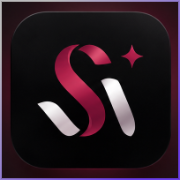
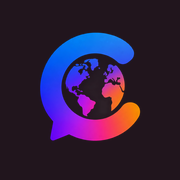
ChaWo: палитра Burgundy & Champagne по всему сайту и дашборду
src/index.css: :root переведён на финальную тёмную палитру (22.09) — ink
#21151d, card #302029, primary #e89bba, geo теперь золотой #d8b56a вместо
голубого, добавлены --error и --champagne. Светлая тема не вводится —
сайт остаётся в единой тёмной теме по решению Алексея.

Все захардкоженные rgba/hex старой бордово-платиновой палитры в
компонентах (Product, Map, Ask, Roadmap, QuoteSection, Idea, Navbar) и в
Team Workspace (dashboard.css, meta.ts и статус/приоритет цвета,
Layout/taskParts/Messages/Notifications/TaskDetail) переведены на новые
значения 1:1 по ролям.

favicon.png и apple-touch-icon.png заменены на новый знак ChaWo (был
устаревший монограммой Si).

Не тронуто осознанно: текстовый контент по-прежнему Social World
(заголовок, meta, навбар) — переименование текста не входило в эту
правку, отдельная задача.

diff --git a/src/components/Product.tsx b/src/components/Product.tsx
@@ -98,15 +98,15 @@ function DiscoverScreen() {
           className="absolute inset-0"
           style={{
             background:
-              'radial-gradient(70% 60% at 55% 45%, rgba(196,103,124,0.5) 0%, rgba(196,103,124,0.06) 45%, transparent 70%), radial-gradient(35% 45% at 20% 75%, rgba(196,103,124,0.35) 0%, transparent 60%), radial-gradient(30% 40% at 78% 65%, rgba(110,155,196,0.35) 0%, transparent 60%), #151417',
+              'radial-gradient(70% 60% at 55% 45%, rgba(232,155,186,0.5) 0%, rgba(232,155,186,0.06) 45%, transparent 70%), radial-gradient(35% 45% at 20% 75%, rgba(232,155,186,0.35) 0%, transparent 60%), radial-gradient(30% 40% at 78% 65%, rgba(216,181,106,0.35) 0%, transparent 60%), #21151d',
           }}
         />
         <svg className="absolute inset-0 w-full h-full opacity-40" viewBox="0 0 300 400" preserveAspectRatio="none">
           {[...Array(10)].map((_, i) => (
-            <path key={`h${i}`} d={`M0 ${30 + i * 35} Q150 ${20 + i * 35 + Math.sin(i) * 10} 300 ${40 + i * 35}`} fill="none" stroke="rgba(236,231,222,0.2)" strokeWidth="0.6" />
+            <path key={`h${i}`} d={`M0 ${30 + i * 35} Q150 ${20 + i * 35 + Math.sin(i) * 10} 300 ${40 + i * 35}`} fill="none" stroke="rgba(255,248,240,0.2)" strokeWidth="0.6" />
           ))}
           {[...Array(7)].map((_, i) => (
-            <path key={`v${i}`} d={`M${40 + i * 40} 0 Q${30 + i * 40 + Math.cos(i) * 15} 200 ${50 + i * 40} 400`} fill="none" stroke="rgba(236,231,222,0.15)" strokeWidth="0.5" />
+            <path key={`v${i}`} d={`M${40 + i * 40} 0 Q${30 + i * 40 + Math.cos(i) * 15} 200 ${50 + i * 40} 400`} fill="none" stroke="rgba(255,248,240,0.15)" strokeWidth="0.5" />
           ))}
         </svg>
         {[
@@ -120,8 +120,8 @@ function DiscoverScreen() {
         ].map((p, i) => (
           <div key={i} className="absolute -translate-x-1/2 -translate-y-1/2" style={{ left: p.x, top: p.y }}>
             <span className={`relative flex ${p.big ? 'h-3 w-3' : 'h-2 w-2'}`}>
-              <span className="absolute inset-0 rounded-full opacity-40 animate-ping" style={{ background: p.tone === 'clay' ? '#c4677c' : '#6e9bc4' }} />
-              <span className={`relative inline-flex rounded-full ${p.big ? 'h-3 w-3' : 'h-2 w-2'}`} style={{ background: p.tone === 'clay' ? '#c4677c' : '#6e9bc4' }} />
+              <span className="absolute inset-0 rounded-full opacity-40 animate-ping" style={{ background: p.tone === 'clay' ? '#e89bba' : '#d8b56a' }} />
+              <span className={`relative inline-flex rounded-full ${p.big ? 'h-3 w-3' : 'h-2 w-2'}`} style={{ background: p.tone === 'clay' ? '#e89bba' : '#d8b56a' }} />
             </span>
           </div>
         ))}
@@ -214,7 +214,7 @@ function ProfileScreen() {
       </div>
       <div className="px-5 mt-3">
         <div className="h-1 rounded-full bg-white/10 overflow-hidden">
-          <div className="h-full w-[94%] rounded-full" style={{ background: 'linear-gradient(90deg, #7a2436, #c4677c)' }} />
+          <div className="h-full w-[94%] rounded-full" style={{ background: 'linear-gradient(90deg, #e89bba, #f0b0c9)' }} />
         </div>
         <div className="mt-1.5 flex justify-between text-[8px] tracking-widest uppercase text-white/40">
           <span>Репутация</span><span className="text-clay">94 / 100</span>
@@ -284,10 +284,10 @@ export default function Product() {
             {/* clay glow */}
             <div className="absolute -inset-16 pointer-events-none" aria-hidden>
               <div className="w-full h-full rounded-full"
-                   style={{ background: 'radial-gradient(closest-side, rgba(196,103,124,0.25), transparent 70%)' }} />
+                   style={{ background: 'radial-gradient(closest-side, rgba(232,155,186,0.25), transparent 70%)' }} />
             </div>
 
-            <div className="relative w-[300px] h-[620px] rounded-[52px] border-hair-strong bg-ink2 p-3 shadow-[0_60px_120px_-40px_rgba(196,103,124,0.35)]">
+            <div className="relative w-[300px] h-[620px] rounded-[52px] border-hair-strong bg-ink2 p-3 shadow-[0_60px_120px_-40px_rgba(232,155,186,0.35)]">
               {/* notch */}
               <div className="absolute top-4 left-1/2 -translate-x-1/2 w-24 h-5 rounded-full bg-black z-30" />
 

diff --git a/src/components/Map.tsx b/src/components/Map.tsx
@@ -30,7 +30,7 @@ export default function Map() {
             className="absolute inset-0"
             style={{
               background:
-                'radial-gradient(60% 55% at 55% 45%, rgba(196,103,124,0.35) 0%, rgba(196,103,124,0.06) 45%, transparent 70%), radial-gradient(35% 40% at 25% 70%, rgba(196,103,124,0.20) 0%, transparent 60%), radial-gradient(30% 35% at 78% 65%, rgba(110,155,196,0.20) 0%, transparent 60%), #151417',
+                'radial-gradient(60% 55% at 55% 45%, rgba(232,155,186,0.35) 0%, rgba(232,155,186,0.06) 45%, transparent 70%), radial-gradient(35% 40% at 25% 70%, rgba(232,155,186,0.20) 0%, transparent 60%), radial-gradient(30% 35% at 78% 65%, rgba(216,181,106,0.20) 0%, transparent 60%), #21151d',
             }}
           />
           {/* streets */}
@@ -40,7 +40,7 @@ export default function Map() {
                 key={`h${i}`}
                 d={`M0 ${50 + i * 45} Q400 ${30 + i * 45 + Math.sin(i) * 20} 800 ${60 + i * 45}`}
                 fill="none"
-                stroke="rgba(236,231,222,0.15)"
+                stroke="rgba(255,248,240,0.15)"
                 strokeWidth="0.8"
               />
             ))}
@@ -49,7 +49,7 @@ export default function Map() {
                 key={`v${i}`}
                 d={`M${60 + i * 80} 0 Q${40 + i * 80 + Math.cos(i) * 20} 300 ${80 + i * 80} 600`}
                 fill="none"
-                stroke="rgba(236,231,222,0.12)"
+                stroke="rgba(255,248,240,0.12)"
                 strokeWidth="0.6"
               />
             ))}
@@ -72,11 +72,11 @@ export default function Map() {
               <span className="relative flex h-2.5 w-2.5">
                 <span
                   className="absolute inset-0 rounded-full opacity-40 animate-ping"
-                  style={{ background: p.tone === 'clay' ? '#c4677c' : '#6e9bc4' }}
+                  style={{ background: p.tone === 'clay' ? '#e89bba' : '#d8b56a' }}
                 />
                 <span
                   className="relative inline-flex h-2.5 w-2.5 rounded-full"
-                  style={{ background: p.tone === 'clay' ? '#c4677c' : '#6e9bc4' }}
+                  style={{ background: p.tone === 'clay' ? '#e89bba' : '#d8b56a' }}
                 />
               </span>
             </div>
@@ -122,9 +122,9 @@ export default function Map() {
                         width: `${d.pulse}%`,
                         background:
                           d.tone === 'clay'
-                            ? 'linear-gradient(90deg, #7a2436, #c4677c)'
+                            ? 'linear-gradient(90deg, #e89bba, #f0b0c9)'
                             : d.tone === 'sage'
-                            ? 'linear-gradient(90deg, #4fa77a, #7fc9a3)'
+                            ? 'linear-gradient(90deg, #d8b56a, #e6c98a)'
                             : 'rgba(255,255,255,0.35)',
                       }}
                     />

diff --git a/src/dashboard/Layout.tsx b/src/dashboard/Layout.tsx
@@ -52,7 +52,7 @@ export default function Layout({ children }: { children: ReactNode }) {
               <n.icon className="h-4 w-4" aria-hidden />
               <span className="flex-1">{n.label}</span>
               {badge(n.to) > 0 && (
-                <span className="rounded-full bg-[var(--d-tint)] px-1.5 text-[11px] font-bold text-[#151417]"
+                <span className="rounded-full bg-[var(--d-tint)] px-1.5 text-[11px] font-bold text-[#21151d]"
                   aria-label={`${badge(n.to)} непрочитанных`}>{badge(n.to)}</span>
               )}
             </NavLink>
@@ -83,7 +83,7 @@ export default function Layout({ children }: { children: ReactNode }) {
             aria-label={noteBadge ? `Уведомления, непрочитанных: ${noteBadge}` : 'Уведомления'}>
             <Bell className="h-4 w-4" aria-hidden />
             {noteBadge > 0 && (
-              <span className="absolute -right-1 -top-1 rounded-full bg-[var(--d-tint)] px-1.5 text-[10px] font-bold text-[#151417]">{noteBadge}</span>
+              <span className="absolute -right-1 -top-1 rounded-full bg-[var(--d-tint)] px-1.5 text-[10px] font-bold text-[#21151d]">{noteBadge}</span>
             )}
           </NavLink>
           <button className="dash-btn dash-btn-ghost !px-3 md:hidden" onClick={() => void signOut()} aria-label="Выйти">
@@ -99,7 +99,7 @@ export default function Layout({ children }: { children: ReactNode }) {
               className={({ isActive }) => `relative flex min-h-14 flex-1 flex-col items-center justify-center gap-0.5 text-[11px] ${isActive ? 'text-[var(--d-tint)]' : 'text-[var(--d-muted)]'}`}>
               <n.icon className="h-5 w-5" aria-hidden />
               {n.label}
-              {badge(n.to) > 0 && <span className="absolute right-[22%] top-1.5 rounded-full bg-[var(--d-tint)] px-1.5 text-[10px] font-bold text-[#151417]">{badge(n.to)}</span>}
+              {badge(n.to) > 0 && <span className="absolute right-[22%] top-1.5 rounded-full bg-[var(--d-tint)] px-1.5 text-[10px] font-bold text-[#21151d]">{badge(n.to)}</span>}
             </NavLink>
           ))}
         </nav>

diff --git a/src/index.css b/src/index.css
@@ -1,29 +1,33 @@
 @import "tailwindcss";
 
 :root {
-  --ink: #151417;
-  --ink2: #211f22;
-  --paper: #e7e4e2;
+  /* ChaWo — «Бургунди и шампань», зафиксированная фирменная палитра
+     (22.09.2026). Единая тёмная тема, без светлого варианта. */
+  --ink: #21151d;
+  --ink2: #302029;
+  --paper: #fff8f0;
 
-  /* Бордовый — цвет действия: кнопки и заливки. */
-  --primary: #7a2436;
-  --primary-hover: #963148;
+  /* Розовый — цвет действия: кнопки и заливки. */
+  --primary: #e89bba;
+  --primary-hover: #f0b0c9;
+  --primary-tint: #e89bba;
 
-  /* Тот же бордовый для текста и иконок на графите: #7a2436 на тёмном
-     фоне даёт контраст 1,8:1 и читается как грязное пятно. */
-  --primary-tint: #c4677c;
+  --success: #75c9a5;
+  --error: #e87878;
 
-  --success: #4fa77a;
-  --geo: #6e9bc4;
+  /* Гео сознательно не розовый и не голубой — золотистый (шампань), чтобы
+     не сливаться с брендовым --primary на карте. */
+  --geo: #d8b56a;
+  --champagne: #e6c98a;
 
-  --line: rgba(64, 59, 62, 0.55);
-  --line-strong: #403b3e;
+  --line: rgba(81, 56, 67, 0.55);
+  --line-strong: #513843;
 }
 
 @layer base {
   html, body {
     background: var(--ink);
-    color: #ece7de;
+    color: var(--paper);
     overflow-x: hidden;
   }
 
@@ -122,14 +126,14 @@
     font-weight: 500;
     letter-spacing: 0.28em;
     text-transform: uppercase;
-    color: rgba(236, 231, 222, 0.5);
+    color: rgba(255, 248, 240, 0.5);
   }
 
   .section-label::before {
     content: '';
     width: 40px;
     height: 1px;
-    background: rgba(236, 231, 222, 0.3);
+    background: rgba(255, 248, 240, 0.3);
   }
 
   /* ————— Divider line ————— */

diff --git a/src/dashboard/pages/Home.tsx b/src/dashboard/pages/Home.tsx
@@ -10,13 +10,13 @@ import { ActivityList } from '../shared'
 import { ClaimButton, DueLabel, PriorityChip, StatusChip } from '../taskParts'
 
 const TILES: { key: string; label: string; to: string; color: string }[] = [
-  { key: 'total', label: 'Всего', to: '/dashboard/tasks', color: '#e7e4e2' },
-  { key: 'todo', label: 'To Do', to: '/dashboard/tasks?status=todo', color: '#aaa5a6' },
-  { key: 'in_progress', label: 'In Progress', to: '/dashboard/tasks?status=in_progress', color: '#6e9bc4' },
-  { key: 'review', label: 'Review', to: '/dashboard/tasks?status=review', color: '#d9a441' },
-  { key: 'done', label: 'Done', to: '/dashboard/tasks?status=done', color: '#4fa77a' },
-  { key: 'blocked', label: 'Blocked', to: '/dashboard/tasks?status=blocked', color: '#e5566d' },
-  { key: 'overdue', label: 'Просрочено', to: '/dashboard/tasks?due=overdue', color: '#e5566d' },
+  { key: 'total', label: 'Всего', to: '/dashboard/tasks', color: '#fff8f0' },
+  { key: 'todo', label: 'To Do', to: '/dashboard/tasks?status=todo', color: '#bba9af' },
+  { key: 'in_progress', label: 'In Progress', to: '/dashboard/tasks?status=in_progress', color: '#d8b56a' },
+  { key: 'review', label: 'Review', to: '/dashboard/tasks?status=review', color: '#e6c98a' },
+  { key: 'done', label: 'Done', to: '/dashboard/tasks?status=done', color: '#75c9a5' },
+  { key: 'blocked', label: 'Blocked', to: '/dashboard/tasks?status=blocked', color: '#e87878' },
+  { key: 'overdue', label: 'Просрочено', to: '/dashboard/tasks?due=overdue', color: '#e87878' },
 ]
 
 const Panel = ({ title, children, action }: { title: string; children: React.ReactNode; action?: React.ReactNode }) => (

diff --git a/src/components/Roadmap.tsx b/src/components/Roadmap.tsx
@@ -86,7 +86,7 @@ const milestones: Milestone[] = [
 ]
 
 const dotColor = (s: Milestone['status']) =>
-  s === 'now' ? '#c4677c' : s === 'next' ? '#4fa77a' : 'rgba(236,231,222,0.35)'
+  s === 'now' ? '#e89bba' : s === 'next' ? '#75c9a5' : 'rgba(255,248,240,0.35)'
 
 const statusLabel: Record<Milestone['status'], string> = {
   now: 'В работе',
@@ -134,9 +134,9 @@ export default function Roadmap() {
                 className="relative w-3 h-3 rounded-full ring-4"
                 style={{
                   background: dotColor(m.status),
-                  boxShadow: m.status === 'now' ? '0 0 24px rgba(196,103,124,0.6)' : 'none',
+                  boxShadow: m.status === 'now' ? '0 0 24px rgba(232,155,186,0.6)' : 'none',
                   // @ts-expect-error css var support
-                  '--tw-ring-color': '#151417',
+                  '--tw-ring-color': '#21151d',
                 }}
               />
               <div className="mt-6 rounded-2xl border-hair p-5 w-full text-left min-h-[220px]">
@@ -178,7 +178,7 @@ export default function Roadmap() {
                 className="absolute -left-[22px] top-2 block w-3 h-3 rounded-full"
                 style={{
                   background: dotColor(m.status),
-                  boxShadow: m.status === 'now' ? '0 0 20px rgba(196,103,124,0.6)' : 'none',
+                  boxShadow: m.status === 'now' ? '0 0 20px rgba(232,155,186,0.6)' : 'none',
                 }}
               />
               <div className="font-mono text-[10px] tracking-[0.24em] uppercase text-white/40 mb-1">

diff --git a/src/dashboard/meta.ts b/src/dashboard/meta.ts
@@ -2,18 +2,18 @@ import type { ActivityEvent, Member, MemberStatus, Priority, Role, TaskStatus } 
 
 export const STATUSES: { id: TaskStatus; label: string; color: string }[] = [
   { id: 'backlog', label: 'Backlog', color: '#8a8587' },
-  { id: 'todo', label: 'To Do', color: '#aaa5a6' },
-  { id: 'in_progress', label: 'In Progress', color: '#6e9bc4' },
-  { id: 'review', label: 'Review', color: '#d9a441' },
-  { id: 'blocked', label: 'Blocked', color: '#e5566d' },
-  { id: 'done', label: 'Done', color: '#4fa77a' },
+  { id: 'todo', label: 'To Do', color: '#bba9af' },
+  { id: 'in_progress', label: 'In Progress', color: '#d8b56a' },
+  { id: 'review', label: 'Review', color: '#e6c98a' },
+  { id: 'blocked', label: 'Blocked', color: '#e87878' },
+  { id: 'done', label: 'Done', color: '#75c9a5' },
 ]
 
 export const PRIORITIES: { id: Priority; label: string; color: string; weight: number }[] = [
   { id: 'low', label: 'Low', color: '#8a8587', weight: 1 },
-  { id: 'medium', label: 'Medium', color: '#6e9bc4', weight: 2 },
-  { id: 'high', label: 'High', color: '#d9a441', weight: 3 },
-  { id: 'critical', label: 'Critical', color: '#e5566d', weight: 4 },
+  { id: 'medium', label: 'Medium', color: '#d8b56a', weight: 2 },
+  { id: 'high', label: 'High', color: '#e6c98a', weight: 3 },
+  { id: 'critical', label: 'Critical', color: '#e87878', weight: 4 },
 ]
 
 export const ROLE_LABEL: Record<Role, string> = { owner: 'Owner', admin: 'Admin', member: 'Member' }

diff --git a/src/dashboard/dashboard.css b/src/dashboard/dashboard.css
@@ -1,18 +1,18 @@
 /* Стили внутреннего dashboard. Грузятся только вместе с ленивым чанком /dashboard. */
 @layer components {
   .dash {
-    --d-bg: #151417;
-    --d-surface: #211f22;
-    --d-raised: #2a272b;
-    --d-line: #403b3e;
-    --d-text: #e7e4e2;
-    --d-muted: #aaa5a6;
-    --d-primary: #7a2436;
-    --d-primary-hover: #963148;
-    --d-tint: #c4677c;
-    --d-ok: #4fa77a;
-    --d-warn: #d9a441;
-    --d-info: #6e9bc4;
+    --d-bg: #21151d;
+    --d-surface: #302029;
+    --d-raised: #3b2731;
+    --d-line: #513843;
+    --d-text: #fff8f0;
+    --d-muted: #bba9af;
+    --d-primary: #e89bba;
+    --d-primary-hover: #f0b0c9;
+    --d-tint: #e89bba;
+    --d-ok: #75c9a5;
+    --d-warn: #e6c98a;
+    --d-info: #d8b56a;
     background: var(--d-bg);
     color: var(--d-text);
     font-family: 'Inter', sans-serif;
@@ -55,7 +55,7 @@
     font-size: 12px; font-weight: 500; border: 1px solid var(--d-line); color: var(--d-muted); white-space: nowrap;
   }
 
-  .dash-row { border-bottom: 1px solid rgba(64, 59, 62, .55); }
+  .dash-row { border-bottom: 1px solid rgba(81, 56, 67, .55); }
   .dash-row:last-child { border-bottom: 0; }
 
   .dash-md { font-size: 14px; line-height: 1.55; overflow-wrap: anywhere; }

diff --git a/src/components/Ask.tsx b/src/components/Ask.tsx
@@ -35,7 +35,7 @@ export default function Ask() {
           className="relative rounded-3xl border-hair-strong p-8 md:p-12 overflow-hidden"
           style={{
             background:
-              'radial-gradient(80% 60% at 20% 0%, rgba(122,36,54,0.22), transparent 60%), radial-gradient(60% 60% at 100% 100%, rgba(79,167,122,0.10), transparent 60%), #151417',
+              'radial-gradient(80% 60% at 20% 0%, rgba(232,155,186,0.22), transparent 60%), radial-gradient(60% 60% at 100% 100%, rgba(117,201,165,0.10), transparent 60%), #21151d',
           }}
         >
           <div className="flex items-baseline justify-between mb-10">
@@ -104,8 +104,8 @@ export default function Ask() {
                     style={{
                       background:
                         a.tone === 'clay'
-                          ? 'linear-gradient(90deg, #7a2436, #c4677c)'
-                          : 'linear-gradient(90deg, #4fa77a, #7fc9a3)',
+                          ? 'linear-gradient(90deg, #e89bba, #f0b0c9)'
+                          : 'linear-gradient(90deg, #75c9a5, #a5dcc4)',
                     }}
                   />
                 </div>

diff --git a/src/components/QuoteSection.tsx b/src/components/QuoteSection.tsx
@@ -43,7 +43,7 @@ export default function QuoteSection() {
     <section
       ref={sectionRef}
       className="relative min-h-screen w-full overflow-hidden flex items-center justify-center px-6 md:px-12"
-      style={{ background: 'radial-gradient(120% 80% at 50% 50%, #211f22 0%, #151417 60%)' }}
+      style={{ background: 'radial-gradient(120% 80% at 50% 50%, #302029 0%, #21151d 60%)' }}
     >
       {/* subtle horizontal hairlines top / bottom of the section */}
       <div className="absolute top-24 left-0 right-0 divider-x" />
@@ -54,7 +54,7 @@ export default function QuoteSection() {
         ref={glowRef}
         className="pointer-events-none absolute left-1/2 top-1/2 h-[520px] w-[900px] rounded-full will-change-transform"
         style={{
-          background: 'radial-gradient(closest-side, rgba(196,103,124,0.18), rgba(196,103,124,0) 70%)',
+          background: 'radial-gradient(closest-side, rgba(232,155,186,0.18), rgba(232,155,186,0) 70%)',
           transform: 'translate3d(-50%, 40px, 0)',
           filter: 'blur(20px)',
         }}

diff --git a/src/dashboard/pages/Messages.tsx b/src/dashboard/pages/Messages.tsx
@@ -72,7 +72,7 @@ export default function Messages() {
                         <Link to={`/dashboard/messages/${c.id}`} aria-current={c.id === convId ? 'page' : undefined}
                           className={`flex min-h-11 items-center gap-2 px-4 text-sm hover:bg-[var(--d-raised)] ${c.id === convId ? 'bg-[var(--d-raised)]' : ''}`}>
                           <span className="flex-1 truncate">{c.kind === 'channel' ? '# ' : ''}{label(c)}</span>
-                          {n > 0 && <span className="rounded-full bg-[var(--d-tint)] px-1.5 text-[11px] font-bold text-[#151417]" aria-label={`${n} непрочитанных`}>{n}</span>}
+                          {n > 0 && <span className="rounded-full bg-[var(--d-tint)] px-1.5 text-[11px] font-bold text-[#21151d]" aria-label={`${n} непрочитанных`}>{n}</span>}
                         </Link>
                       </li>
                     )

diff --git a/src/dashboard/pages/Notifications.tsx b/src/dashboard/pages/Notifications.tsx
@@ -54,7 +54,7 @@ export default function Notifications() {
               className={`dash-btn dash-btn-sm ${tab === t.id ? '' : 'dash-btn-ghost'}`}
               onClick={() => setSp(t.id === 'personal' ? {} : { tab: t.id }, { replace: true })}>
               {t.label}
-              {n > 0 && <span className={`rounded-full px-1.5 text-[11px] font-bold ${tab === t.id ? 'bg-white/25' : 'bg-[var(--d-tint)] text-[#151417]'}`}
+              {n > 0 && <span className={`rounded-full px-1.5 text-[11px] font-bold ${tab === t.id ? 'bg-white/25' : 'bg-[var(--d-tint)] text-[#21151d]'}`}
                 aria-label={`${n} непрочитанных`}>{n}</span>}
             </button>
           )
